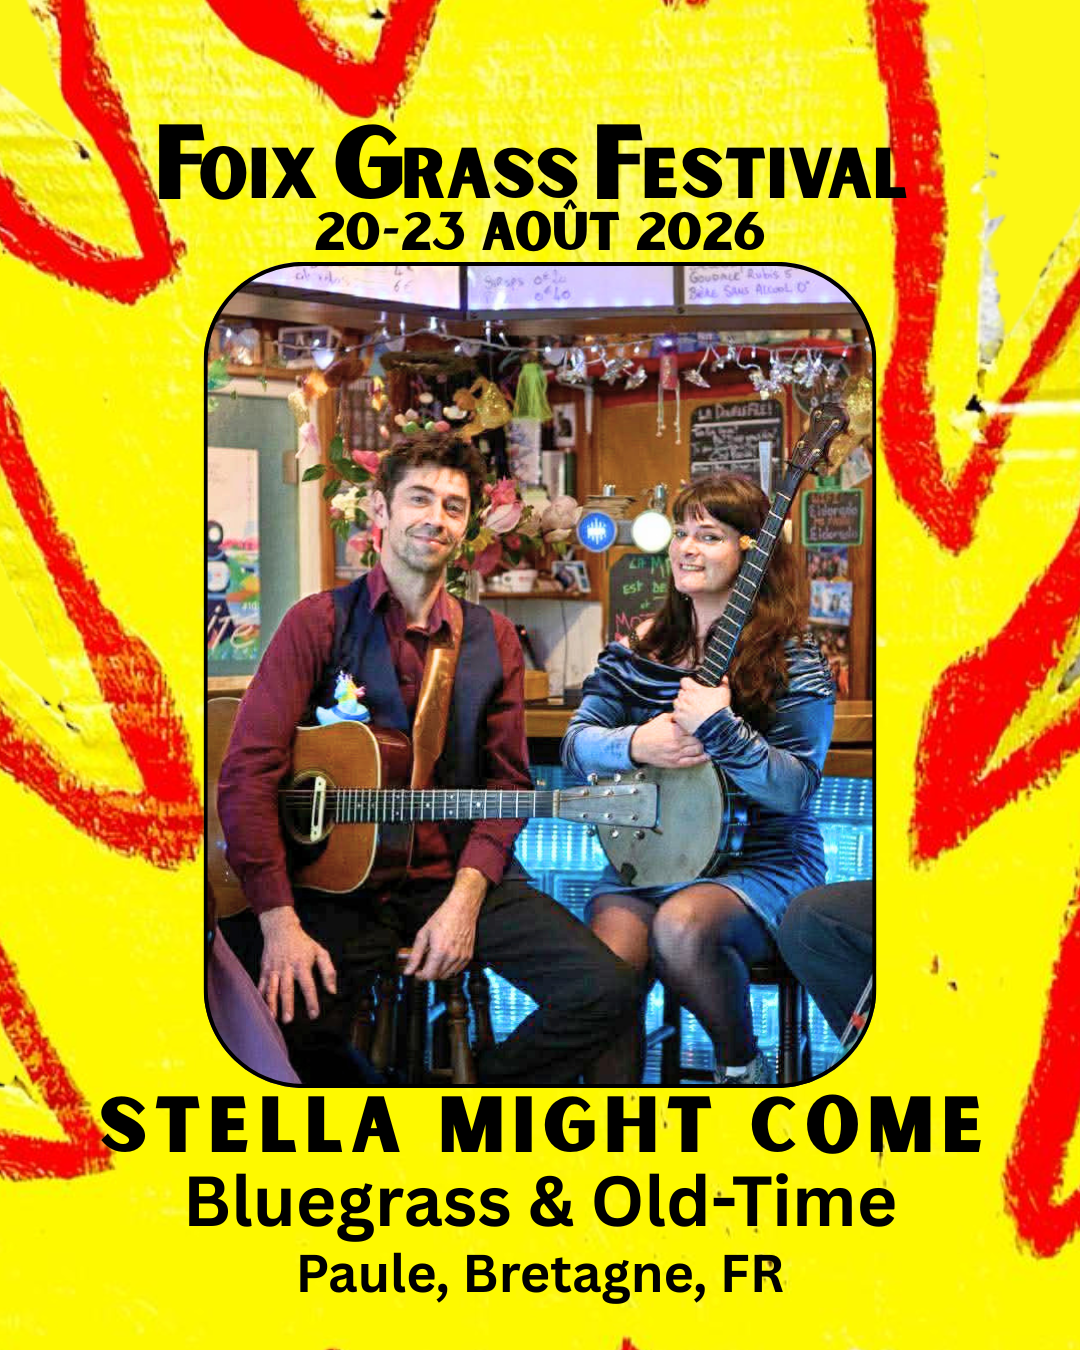
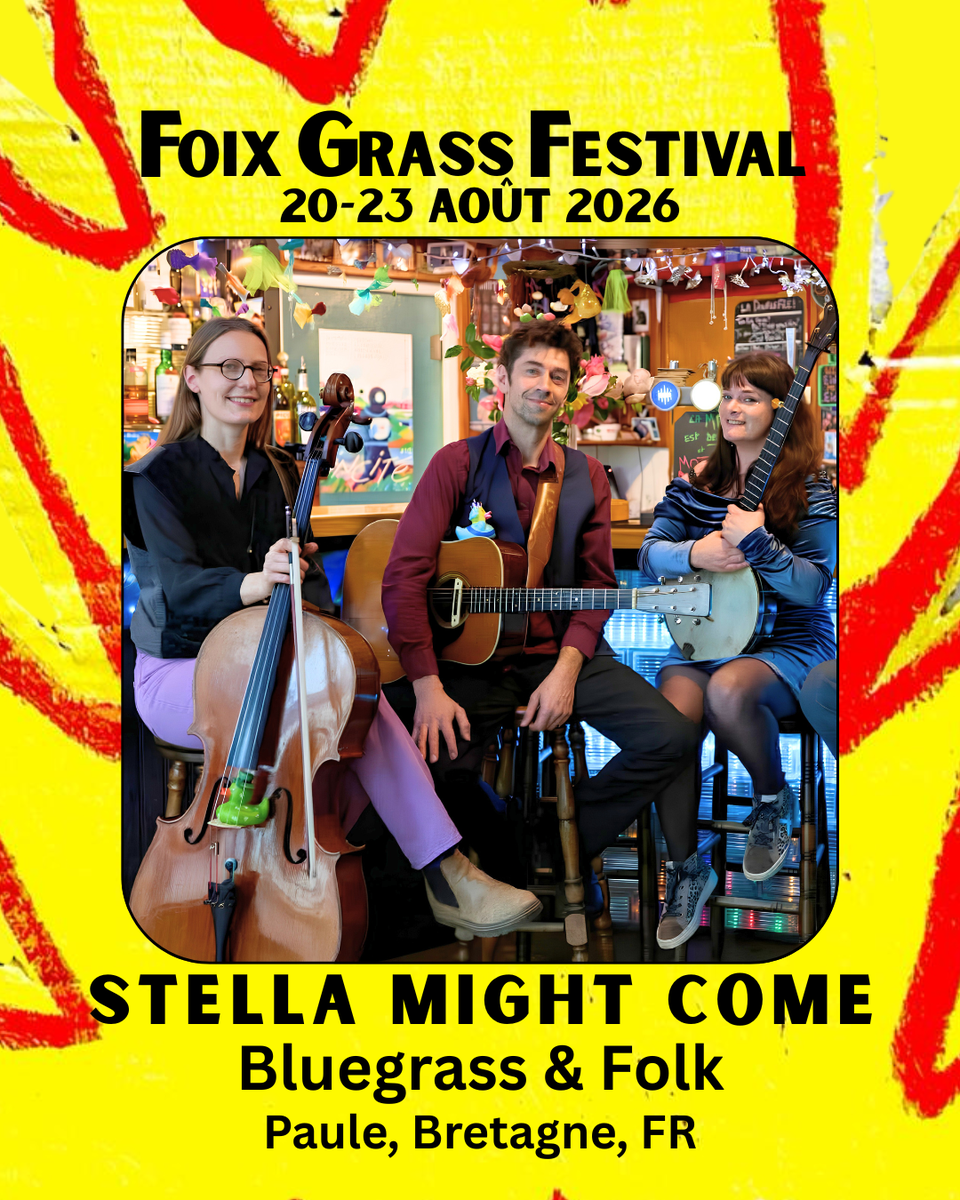
MAJ Stella Might Come : nouvelle bio (trio) + nouvelle affiche

diff --git a/layouts/index.html b/layouts/index.html
@@ -1062,11 +1062,11 @@
     </div>
     <div class="modal-info">
       <h2 class="modal-name">Stella Might Come</h2>
-      <p class="modal-genre">Bluegrass · Old-Time · Folk</p>
-      <span class="modal-origin">France</span>
+      <p class="modal-genre">Bluegrass · Folk</p>
+      <span class="modal-origin">Bretagne, France</span>
       <p class="modal-bio">
-        Duo bluegrass, old-time et folk composé de Danielle Titley à la guitare et au banjo, et de François Verguet à la guitare. Ce nouveau groupe est à l'origine un quartet, mais sera présent en duo à FoixGrass.<br><br>
-        Danielle Titley a écumé les scènes bluegrass françaises avec le Jack Danielle String Band et lance désormais ce nouveau projet.
+        Stella Might Come est un trio de cordes et de voix aux couleurs bluegrass et aux racines folk. La rencontre de trois musicien-nes venu-es d'univers différents lui donnent un son intimiste et groovy, un air souvent joyeux, parfois mélancolique, toujours chaleureux. Ensemble ils revisitent les chansons de Gillian Welch, Alison Krauss, Tim O'Brien et tant d'autres…<br><br>
+        Avec Danielle Titley et François Verguet au chant, à la guitare et au banjo, et Suzanne Fischer au chant et au violoncelle.
       </p>
     </div>
   </div>
